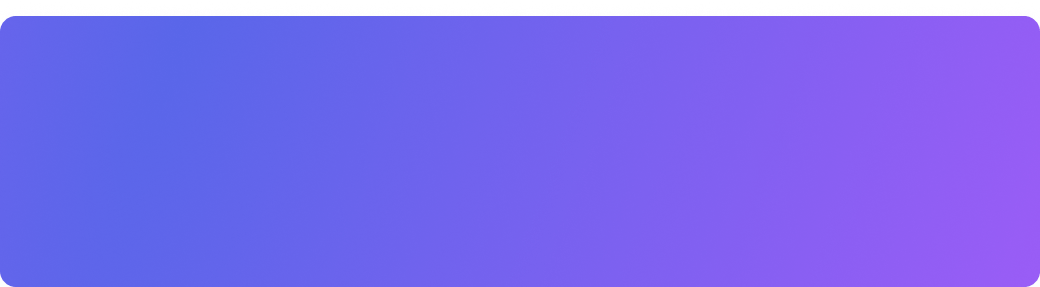
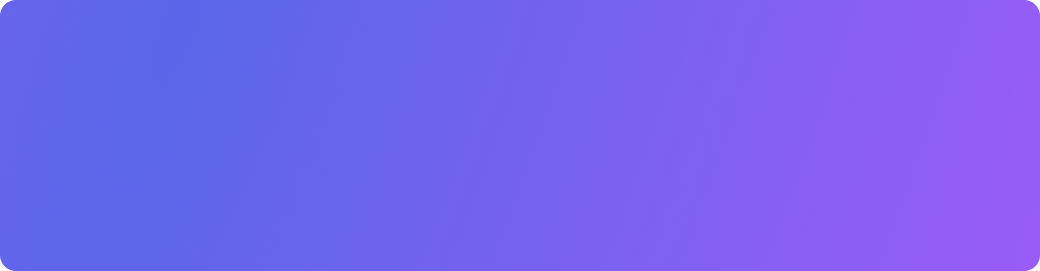
Fix : Gradation Img

Changed region(s): [[0.0, 0.0, 1.0, 0.0886]]

diff --git a/src/components/Home/organisms/TimeBoard/index.tsx b/src/components/Home/organisms/TimeBoard/index.tsx
@@ -68,7 +68,7 @@ const TimeBoard = () => {
                 navigationDrawer && <NavigationDrawer modalState={navigationDrawer} setModalState={setNavigationDrawer}/>
             }
             <S.BoardBottom>
-                <Image src={GradationImg} layout={"fill"} alt='그라데이션이미지'/>
+                <Image src={GradationImg} layout="fill" alt="GradationImg"/>
                 <span>현재시간</span>
                 <S.CurrentTime>{date}</S.CurrentTime>
                 <S.DotoriImgBox>
